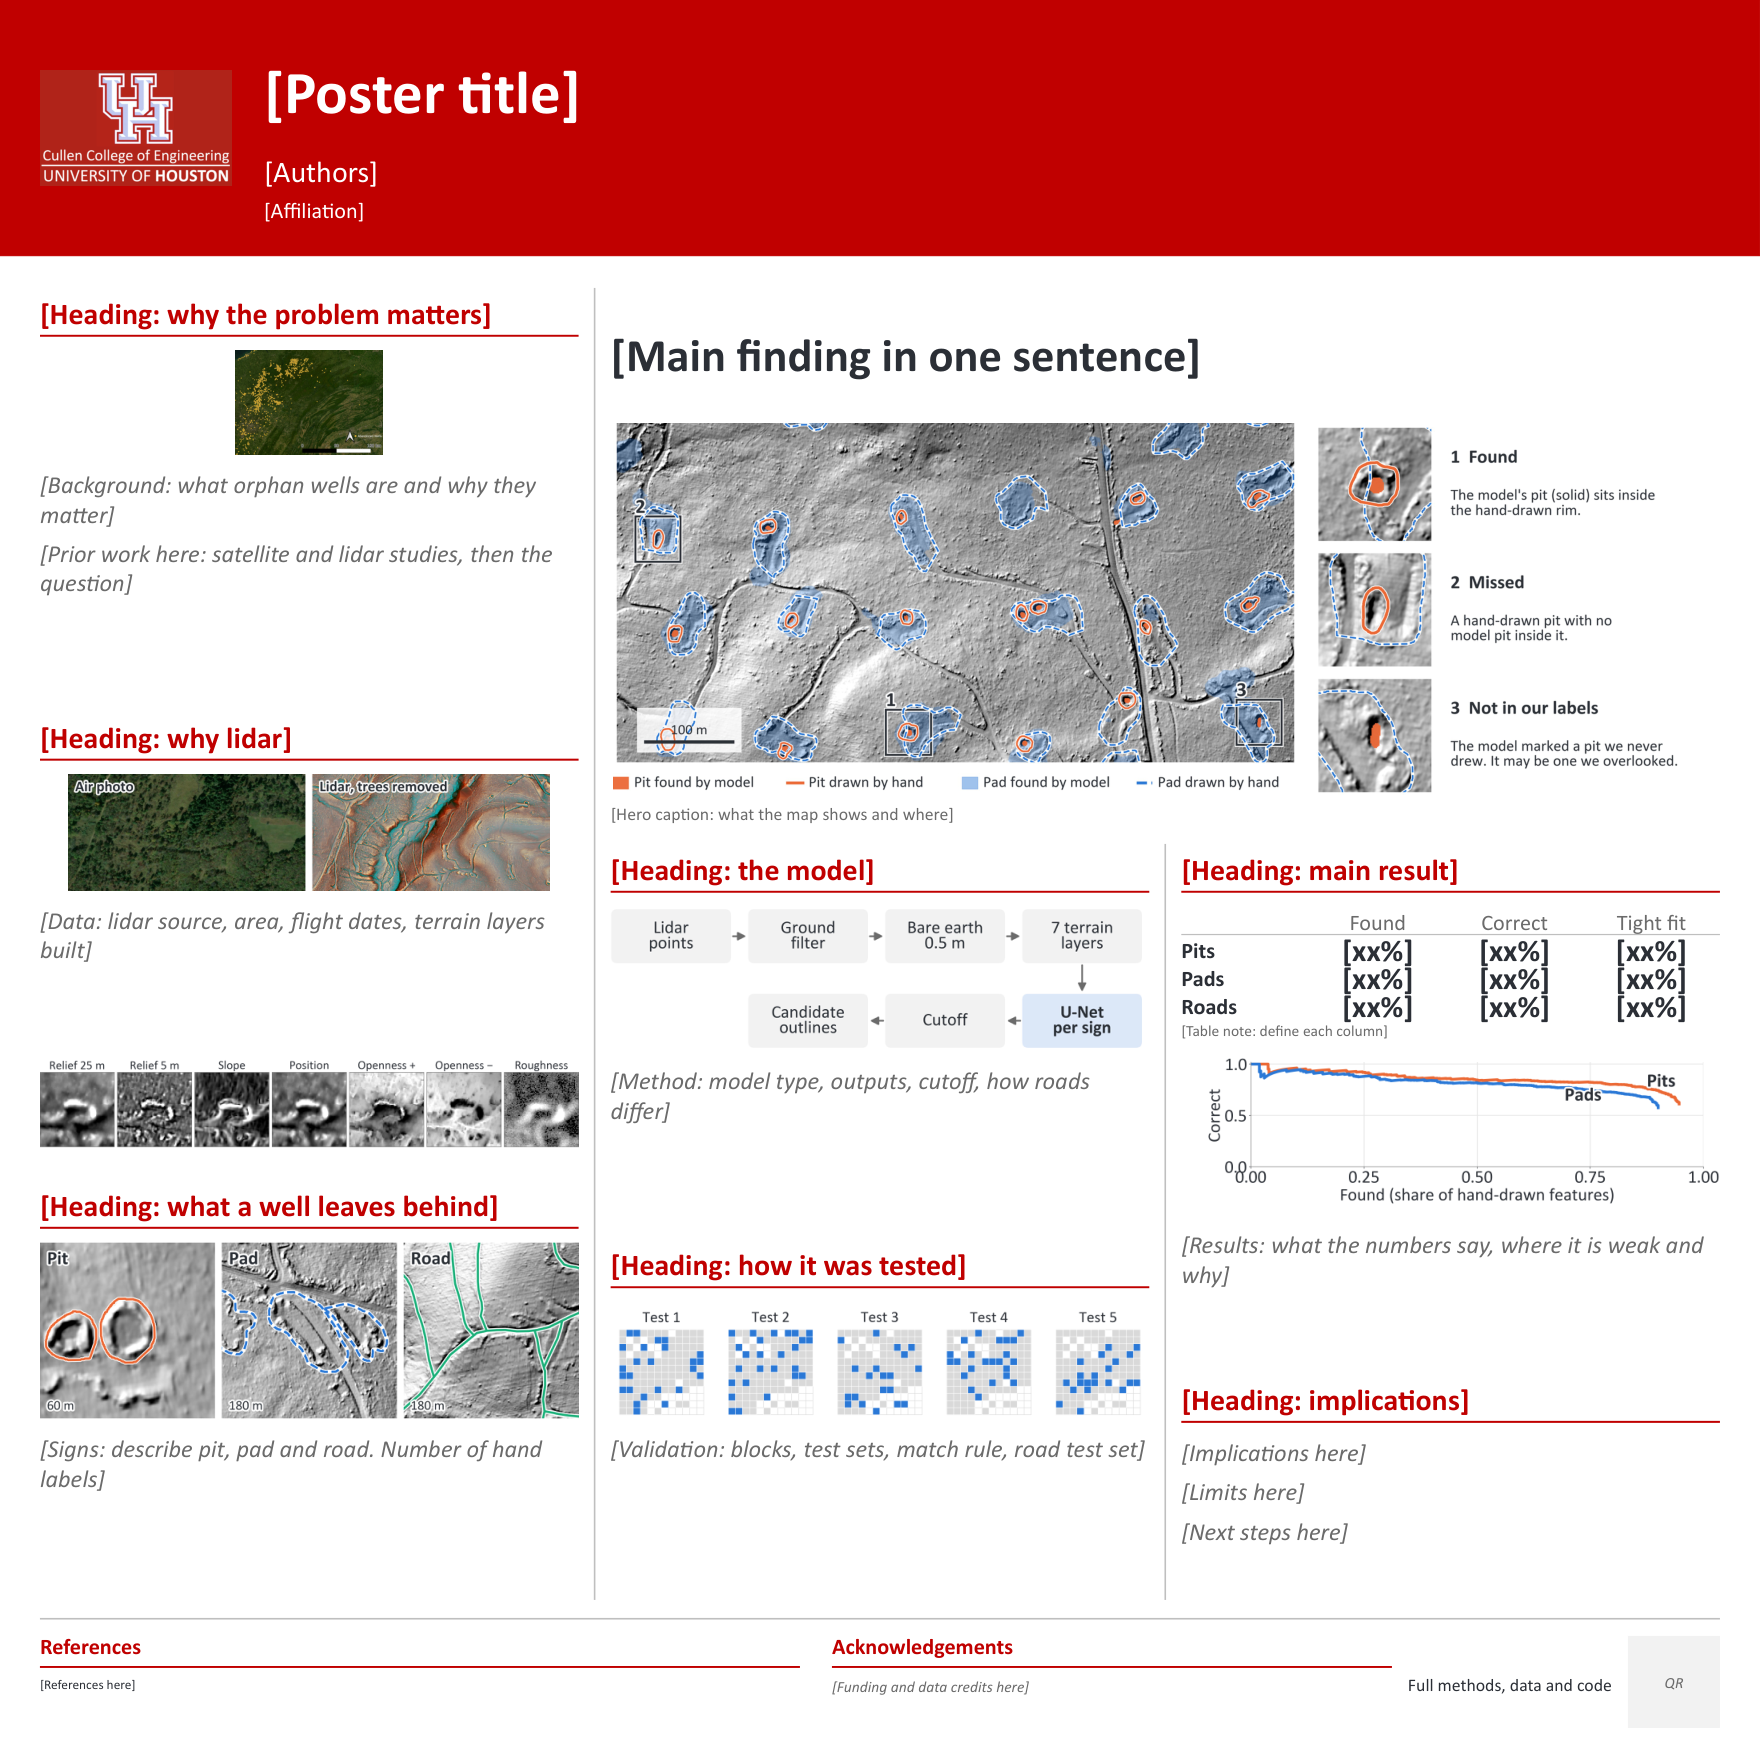
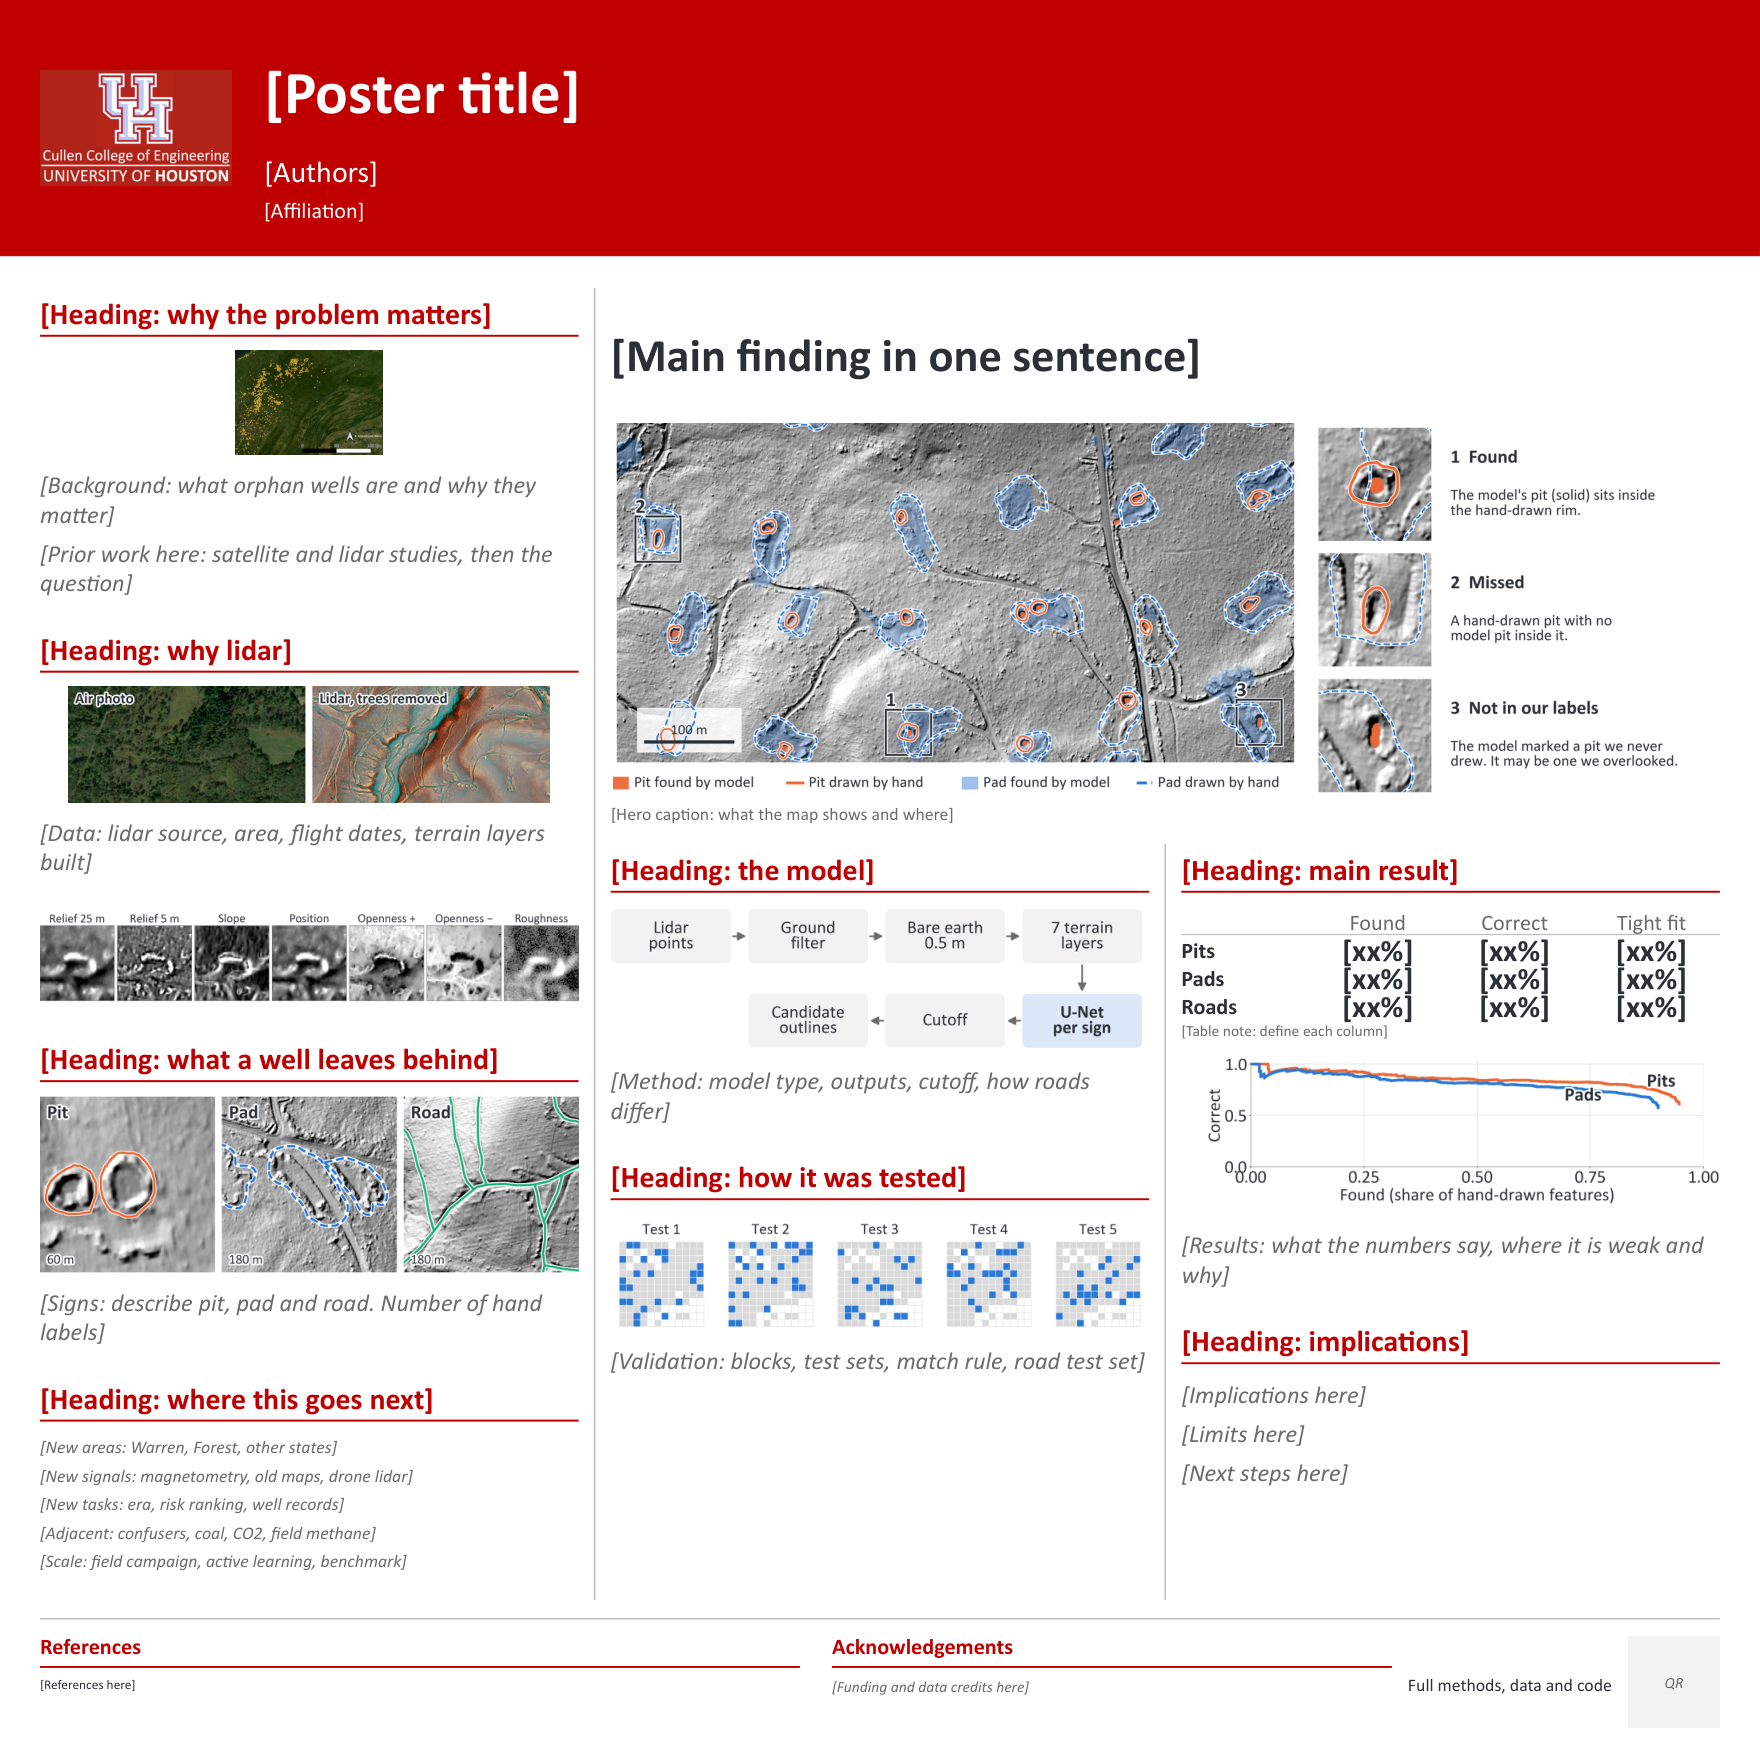
agu poster outline: add expansion tracks section

Changed region(s): [[0.0, 0.3438, 0.8438, 0.875]]

diff --git a/agu_poster/_make_agu_poster.py b/agu_poster/_make_agu_poster.py
@@ -124,8 +124,8 @@ TABLE = [("", "Found", "Correct", "Tight fit"),
          ("Pads", "91%", "59%", "77%"),
          ("Roads", "98%", "—", "—")]
 TABLE_NOTE = "Found = recall. Correct = precision. Tight fit = recall at IoU 0.5."
-# --outline: stand-in text per section, (heading, [one entry per text block]). Space is kept at the real
-# text's height so the layout matches the mockup.
+# --outline: stand-in text per section, (heading, [one entry per text block]). Each slot is sized for its
+# stand-in, which frees room for the expansion section below.
 OUTLINE = [
     ("[Heading: why the problem matters]",
      ["[Background: what orphan wells are and why they matter]|[Prior work here: satellite and lidar "
@@ -137,6 +137,17 @@ OUTLINE = [
     ("[Heading: main result]", ["[Results: what the numbers say, where it is weak and why]"]),
     ("[Heading: implications]", ["[Implications here]|[Limits here]|[Next steps here]"]),
 ]
+# --outline only: the expansion tracks from docs/plans/EXPANSION_MASTER_PLAN.md section 3, one line each.
+# Plan only. Nothing here is a result.
+EXPANSION = ("[Heading: where this goes next]", C1, [
+    ("small", "[New areas: Warren, Forest, other states]|"
+              "[New signals: magnetometry, old maps, drone lidar]|"
+              "[New tasks: era, risk ranking, well records]|"
+              "[Adjacent: confusers, coal, CO2, field methane]|"
+              "[Scale: field campaign, active learning, benchmark]"),
+])
+SMALL_PT = 32
+
 OUTLINE_TABLE = [("", "Found", "Correct", "Tight fit")] + [(r[0], "[xx%]", "[xx%]", "[xx%]") for r in TABLE[1:]]
 
 HERO_CAPTION = ("Every prediction shown comes from a model that never saw this block. Western Pennsylvania, "
@@ -249,10 +260,13 @@ def main() -> None:
 
     words = len(TAKEAWAY.split()) + len(HERO_CAPTION.split())
     col_end = {C1: BODY_TOP - 0.7, C2: LOWER - 0.7, C3: LOWER - 0.7}
-    for si, (head, x, y, blocks) in enumerate(SECTIONS):
-        stand_texts = iter(OUTLINE[si][1])
+    sections = [(h, x, y, b, OUTLINE[i]) for i, (h, x, y, b) in enumerate(SECTIONS)]
+    if outline:
+        sections.append((EXPANSION[0], EXPANSION[1], None, EXPANSION[2], (EXPANSION[0], [])))
+    for head, x, y, blocks, stand in sections:
+        stand_texts = iter(stand[1])
         y = col_end[x] + 0.7 if y is None else y      # stack under the previous section in the column
-        text_box(s, x, y, CW, HEAD_H, OUTLINE[si][0] if outline else head, HEAD_PT, UH_RED, bold=True, anchor=MSO_ANCHOR.BOTTOM)
+        text_box(s, x, y, CW, HEAD_H, stand[0] if outline else head, HEAD_PT, UH_RED, bold=True, anchor=MSO_ANCHOR.BOTTOM)
         words += len(head.split())
         rule_y = y + HEAD_H + 0.12
         rect(x, rule_y, CW, 0.05, UH_RED)
@@ -278,10 +292,14 @@ def main() -> None:
                 text_box(s, x, top + len(TABLE) * rh + 0.05, CW, 0.5,
                          "[Table note: define each column]" if outline else TABLE_NOTE, 28, GREY)
                 top += h + 0.3
+            elif kind == "small":                       # compact list, one paragraph per line
+                th = text_height(key_or_text, SMALL_PT)
+                text_box(s, x, top, CW, th + 0.2, key_or_text, SMALL_PT, GREY, italic=True)
+                top += th + 0.45
             else:
-                th = text_height(key_or_text)
-                text_box(s, x, top, CW, th + 0.2, next(stand_texts) if outline else key_or_text, BODY_PT,
-                         GREY if outline else INK, italic=outline)
+                body = next(stand_texts) if outline else key_or_text
+                th = text_height(body)
+                text_box(s, x, top, CW, th + 0.2, body, BODY_PT, GREY if outline else INK, italic=outline)
                 words += len(key_or_text.replace("|", " ").split())
                 top += th + 0.45
         col_end[x] = top - 0.45
